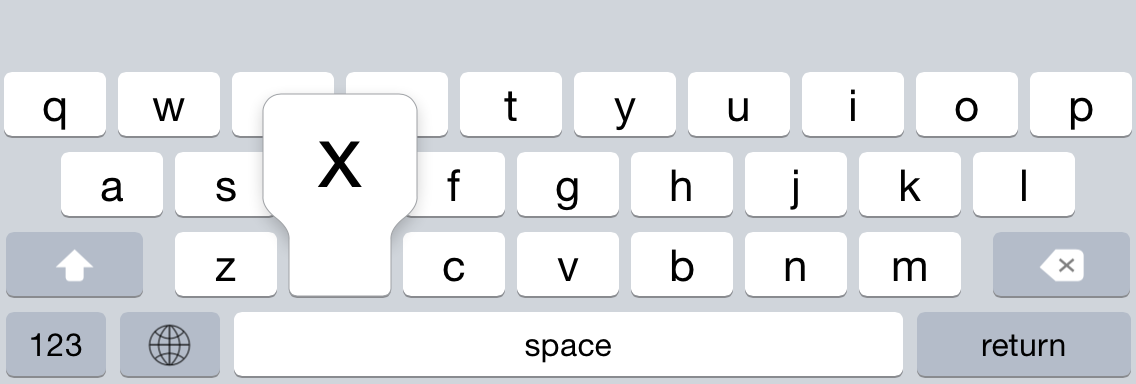
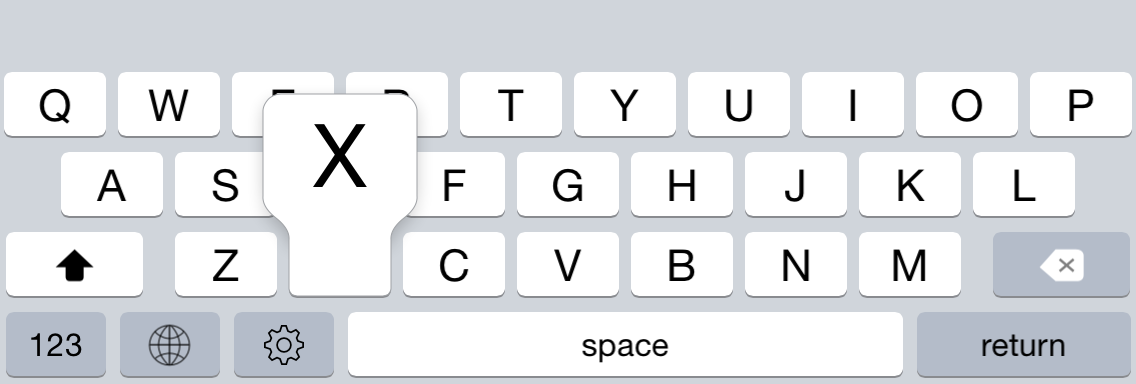
Updated screenshots.

diff --git a/Keyboard/Catboard.swift b/Keyboard/Catboard.swift
@@ -60,16 +60,16 @@ class Catboard: KeyboardViewController {
         }
     }
     
-    let takeDebugScreenshot: Bool = true
+    let takeDebugScreenshot: Bool = false
     
     override func setupKeys() {
-        if self.layout == nil {
-            return
-        }
-        
         super.setupKeys()
         
         if takeDebugScreenshot {
+            if self.layout == nil {
+                return
+            }
+            
             for page in keyboard.pages {
                 for rowKeys in page.rows {
                     for key in rowKeys {

diff --git a/README.md b/README.md
@@ -2,15 +2,21 @@
 
 I'm working on a 3rd party keyboard for iOS8 and I want it to look and feel as close as possible to Apple's keyboard. Unfortunately, it's not possible to access the keyboard view through code, so this is my attempt to imitate it by hand. (I'm sure there are ways to get even more accuracy via reverse engineering, but that's too much work for me!) In the end, I hope to produce a coherent and robust baseline for creating custom 3rd party keybards — at least, until Apple decides to fully open up their keyboard API.
 
+This keyboard is currently optimized for iPhone. iPad should work, but it'll look like a giant iPhone keyboard.
+
 ## Recent Screenshots
 
 <img width="320px" src="./Screenshot-Portrait.png"></img>
 <img width="568px" src="./Screenshot-Landscape.png"></img>
+<img width="320px" src="./Settings-Portrait.png"></img>
 
 ## Fantastic Features
 
 * No bitmaps! Everything is rendered using CoreGraphics.
 * Dynamic layouts! All the keys are laid out programmatically, meaning that the keyboard is much easier to extend and will automatically work on devices of all sizes.
+* Auto-capitalization, period shortcut, keyboard clicks.
+* An extensible settings screen.
+* Dark mode and solid color mode.
 * This keyboard is an iOS8 extension.
 
 ## Current State
